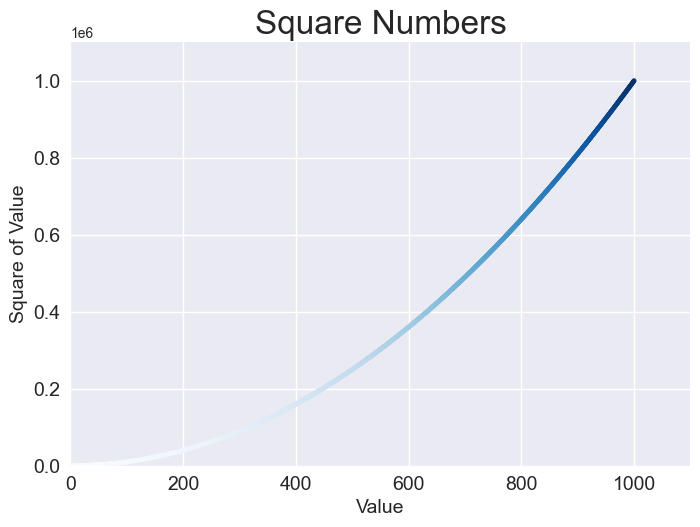
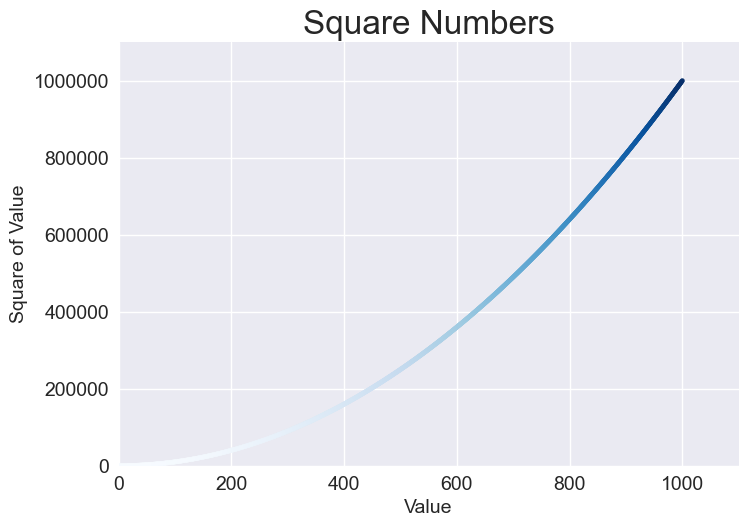
update to 3e

diff --git a/mpl_squares.py b/mpl_squares.py
@@ -3,11 +3,16 @@
 import matplotlib.pyplot as plt
 # print(plt.style.available)
 
-input_values = range(1, 6)
+input_values = range(1, 11)
 squares = [x ** 2 for x in input_values]
 
 plt.style.use('seaborn-v0_8')
 fig, ax = plt.subplots()
+ax.plot(input_values, squares, linewidth=3)
+
+ax.set_title('Square Numbers', fontsize=24)
+ax.set_xlabel('Value', fontsize=14)
+ax.set_ylabel('Square of Value', fontsize=14)
 
 # Set size of tick labels
 ax.tick_params(axis='both', labelsize=14)

diff --git a/scatter_squares.py b/scatter_squares.py
@@ -22,10 +22,11 @@ ax.set_xlabel('Value', fontsize=14)
 ax.set_ylabel('Square of Value', fontsize=14)
 
 # Set size of tick labels
-ax.tick_params(axis='both', which='major', labelsize=14)
+ax.tick_params(labelsize=14)
 
 # Set the range for each axis
-ax.axis([0, 1100, 0, 1100000])
+ax.axis([0, 1100, 0, 1_100_000])
+ax.ticklabel_format(style='plain')
 
 fig.savefig('IMAGES/squares_plot1.png', bbox_inches='tight')
 plt.show()

diff --git a/rw_visuals.py b/rw_visuals.py
@@ -12,6 +12,7 @@ fig, ax = plt.subplots(figsize=(10, 6))
 points_numbers = range(rw.num_points)
 ax.scatter(rw.x_values, rw.y_values, c=points_numbers,
            cmap=plt.cm.Blues, edgecolors='none', s=1)
+ax.set_aspect('equal')
 
 # emphasize the first and last points
 ax.scatter(0, 0, c='green', edgecolors='none', s=100)
